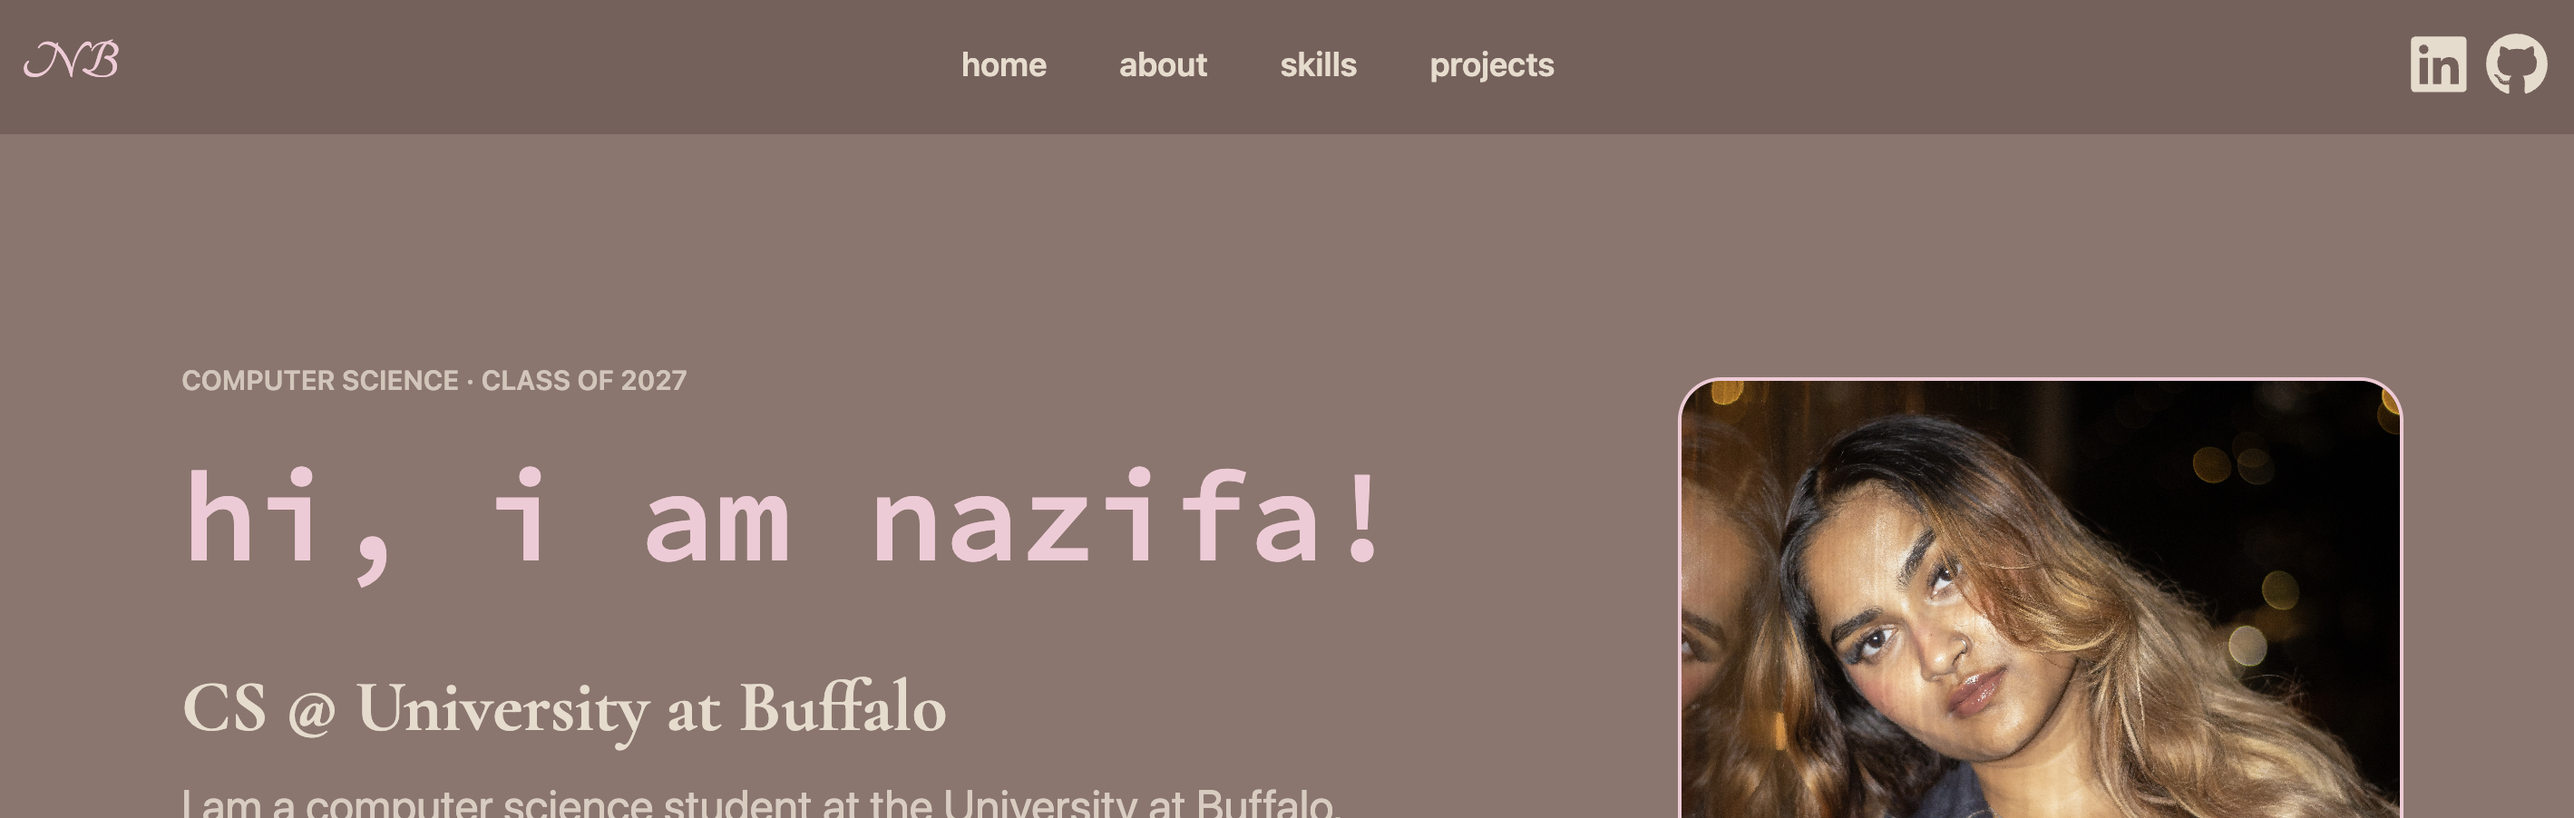
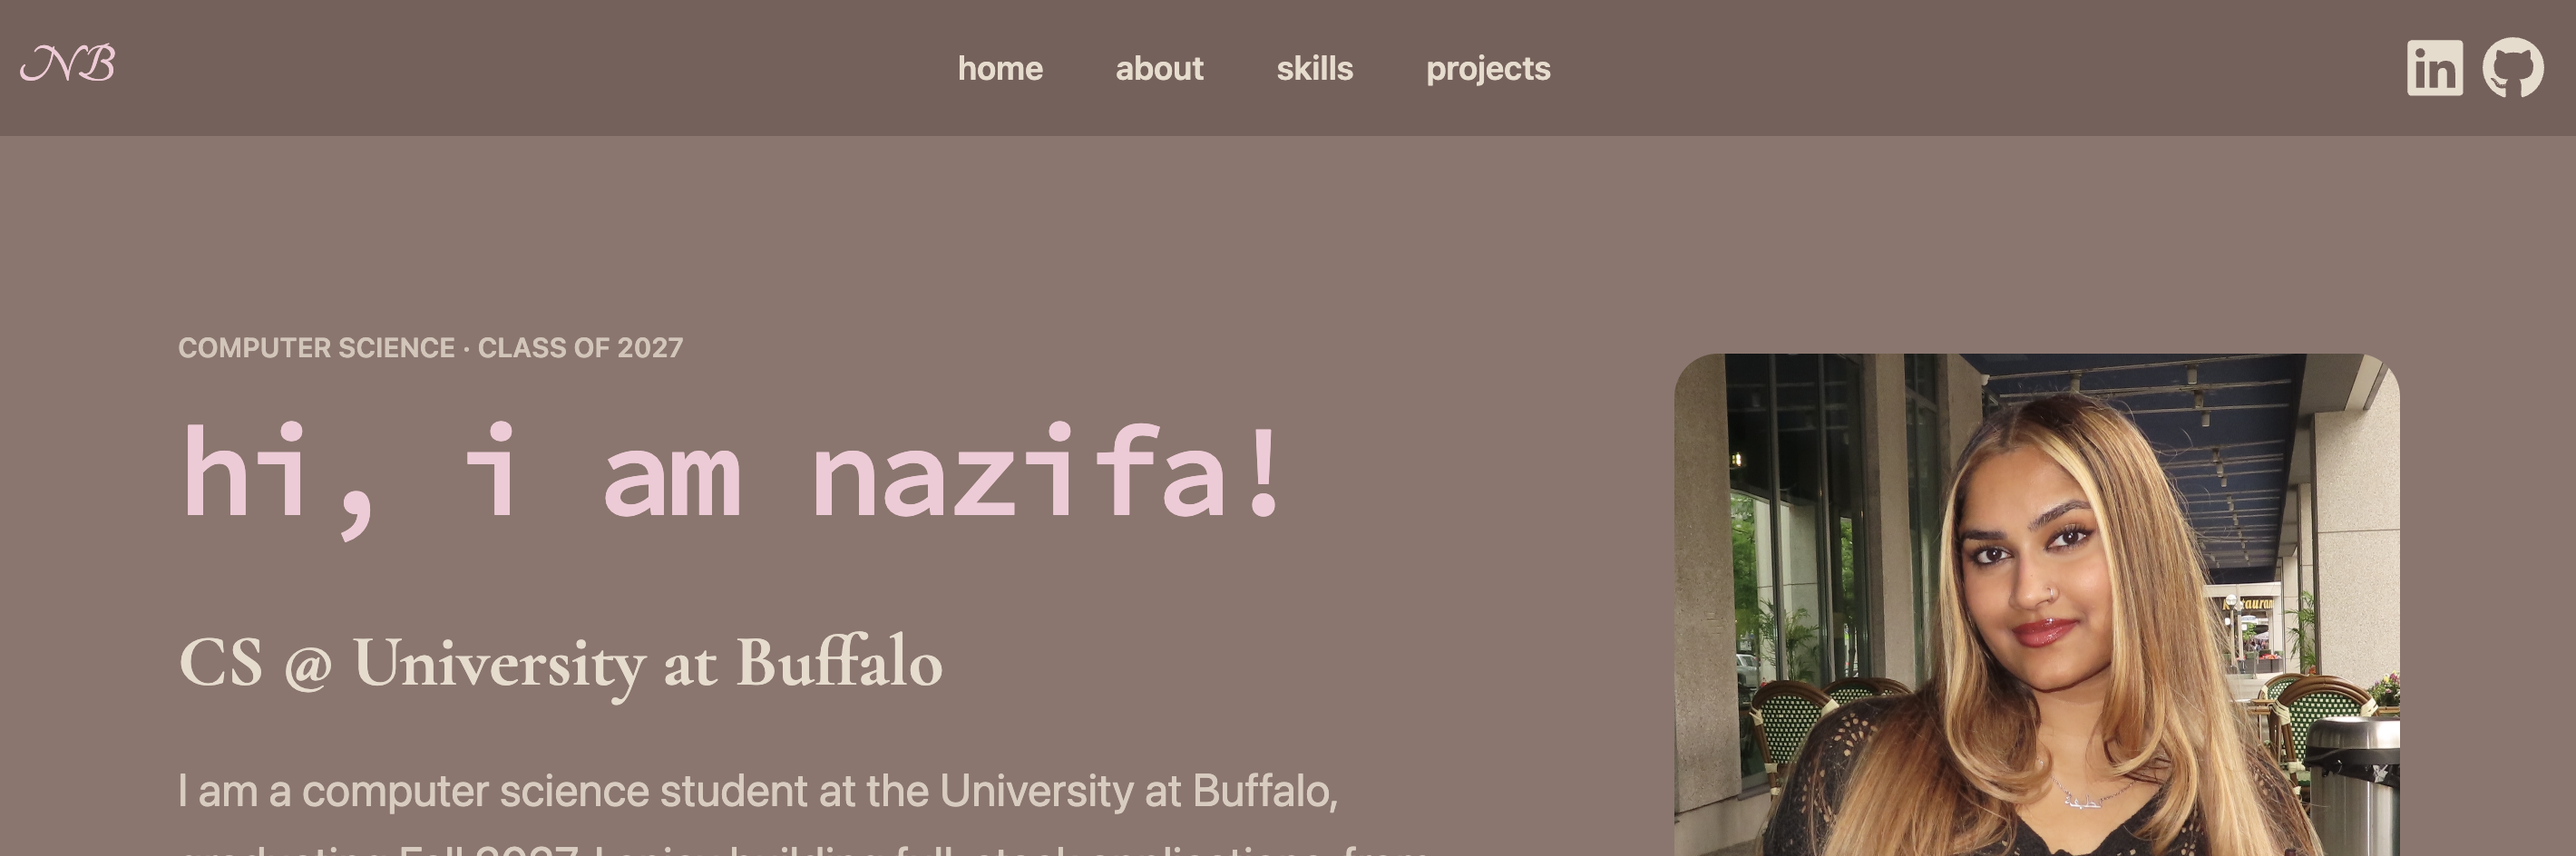
fixed responsive design bugs, changed intro component image and portfolio project image

diff --git a/src/components/Intro.tsx b/src/components/Intro.tsx
@@ -30,7 +30,7 @@ function Intro() {
 
         <h2 className=" text-center xl:text-left font-semibold cormorant-garamond-title  mt-5 md:mt-8 text-[#e8dbcc] xl:text-[40px] text-[23px] md:text-[30px]" >CS @ University at Buffalo </h2>
 
-        <p className="xl:text-left text-center font-sans mt-2 md:mt-5 text-[#E8DBCC]/[0.85] leading-[1.62] text-[15px] xl:text-[25px] md:text-[20px] w-full  xl:w-[700px] 2xl:w-[900px]">
+        <p className="xl:text-left text-center font-sans mt-2 md:mt-5 text-[#E8DBCC]/[0.85] leading-[1.62] text-[15px] xl:text-[25px] md:text-[20px] w-full  xl:w-[700px] 2xl:w-[1000px]">
           I am a computer science student at the University at Buffalo, graduating Fall 2027. 
           I enjoy building full-stack applications, from designing databases to building the interfaces
           people actually use.
@@ -52,11 +52,11 @@ function Intro() {
 
 
 
-        <div className="pt-[45px] md:pt-[80px] xl:pt-[130px] 2xl:pt-[110px] 2xl:pr-[80px] flex justify-center xl:justify-start order-1 xl:order-2  ">
+        <div className="pt-[45px] md:pt-[55px] xl:pt-[115px] 2xl:pt-[125px] 2xl:pr-[80px] flex justify-center xl:justify-start order-1 xl:order-2  ">
           <img 
           src={profilePhoto} 
           alt="profile image" 
-          className="  w-[250px] h-[270px]  md:h-[350px] xl:h-[450px] 2xl:h-[550px]  xl:w-[400px] md:w-[330px]  2xl:w-[450px]  rounded-3xl  object-cover object-top"
+          className="  w-[250px] h-[270px]  md:h-[350px] xl:h-[450px] 2xl:h-[500px]  xl:w-[400px] md:w-[330px]  2xl:w-[450px]  rounded-3xl  object-cover object-top"
         />
       </div>
       

diff --git a/src/components/Navbar.tsx b/src/components/Navbar.tsx
@@ -9,8 +9,8 @@ return (
 
 <div className= "bg-[#79605a]  fixed top-0 w-full">
 
-<nav className = "flex p-3 font-semibold font-sans text-[#e8dbcc] text-[12px] md:text-lg justify-between items-center">
-        <h1 className="tracking-[0.1em] tangerine-bold italic text-[15px] md:text-[30px] text-[#F4C9D6] "     >NB</h1>
+<nav className = "flex p-3 font-semibold font-sans text-[#e8dbcc] text-[13px] md:text-lg justify-between items-center">
+        <h1 className="tracking-[0.1em] tangerine-bold italic text-[20px] md:text-[30px] text-[#F4C9D6] "     >NB</h1>
 
   <div className= " flex md:gap-10 gap-4">
  <a href="#home">home</a>
@@ -21,8 +21,8 @@ return (
  
  
  <div  className="flex p-2 md:gap-2 gap-1"  >
-    <a  href="https://www.linkedin.com/in/nzfa/">  <FaLinkedin className = "text-[#e8dbcc] text-[20px] md:text-[35px]" /></a>
-    <a href="https://github.com/nazifabari"><FaGithub className = "text-[#e8dbcc] text-[20px] md:text-[35px] " />   </a>   </div>
+    <a  href="https://www.linkedin.com/in/nzfa/">  <FaLinkedin className = "text-[#e8dbcc] text-[30px] md:text-[35px]" /></a>
+    <a href="https://github.com/nazifabari"><FaGithub className = "text-[#e8dbcc] text-[30px] md:text-[35px] " />   </a>   </div>
 
 
 

diff --git a/src/components/About.tsx b/src/components/About.tsx
@@ -56,7 +56,11 @@ return(
 
       <p className="text-center font-sans text-[#e8dbcc] text-[15px] md:text-[20px] xl:text-[25px] xl:px-10 w-full md:pt-[15px] pt-[7px] " 
       >I'm driven by building technology that makes people's lives easier and more accessible. 
-      A proud Dean's List student passionate about full stack and frontend development. 
+      A proud  <a className="text-[#F4C9D6] text-center font-sans text-[15px] md:text-[20px] xl:text-[25px] text-[#F4C9D6] underline hover:font-bold  "  href="https://meritpages.com/nazifa"> Dean's List</a> 
+        {' '}     
+
+      student  
+      passionate about full stack and frontend development. 
       I believe the best way to learn is by doing, jumping into real projects and picking up new tools along the way. 
       In my free time you'll find me at the gym or with my nose in a book.</p>
 

diff --git a/src/components/Footer.tsx b/src/components/Footer.tsx
@@ -7,7 +7,7 @@ return(
 
         <span className=" text-[10px] md:text-[15px] text-[#e8dbcc]/[0.50] ">© 2026 NB</span>
 
-        <h1 className="tracking-[0.1em] tangerine-bold italic text-[15px] md:text-[30px] text-[#F4C9D6] "     >NB</h1>
+        <h1 className="tracking-[0.1em] tangerine-bold italic text-[20px] md:text-[30px] text-[#F4C9D6] "     >NB</h1>
 
         
 
